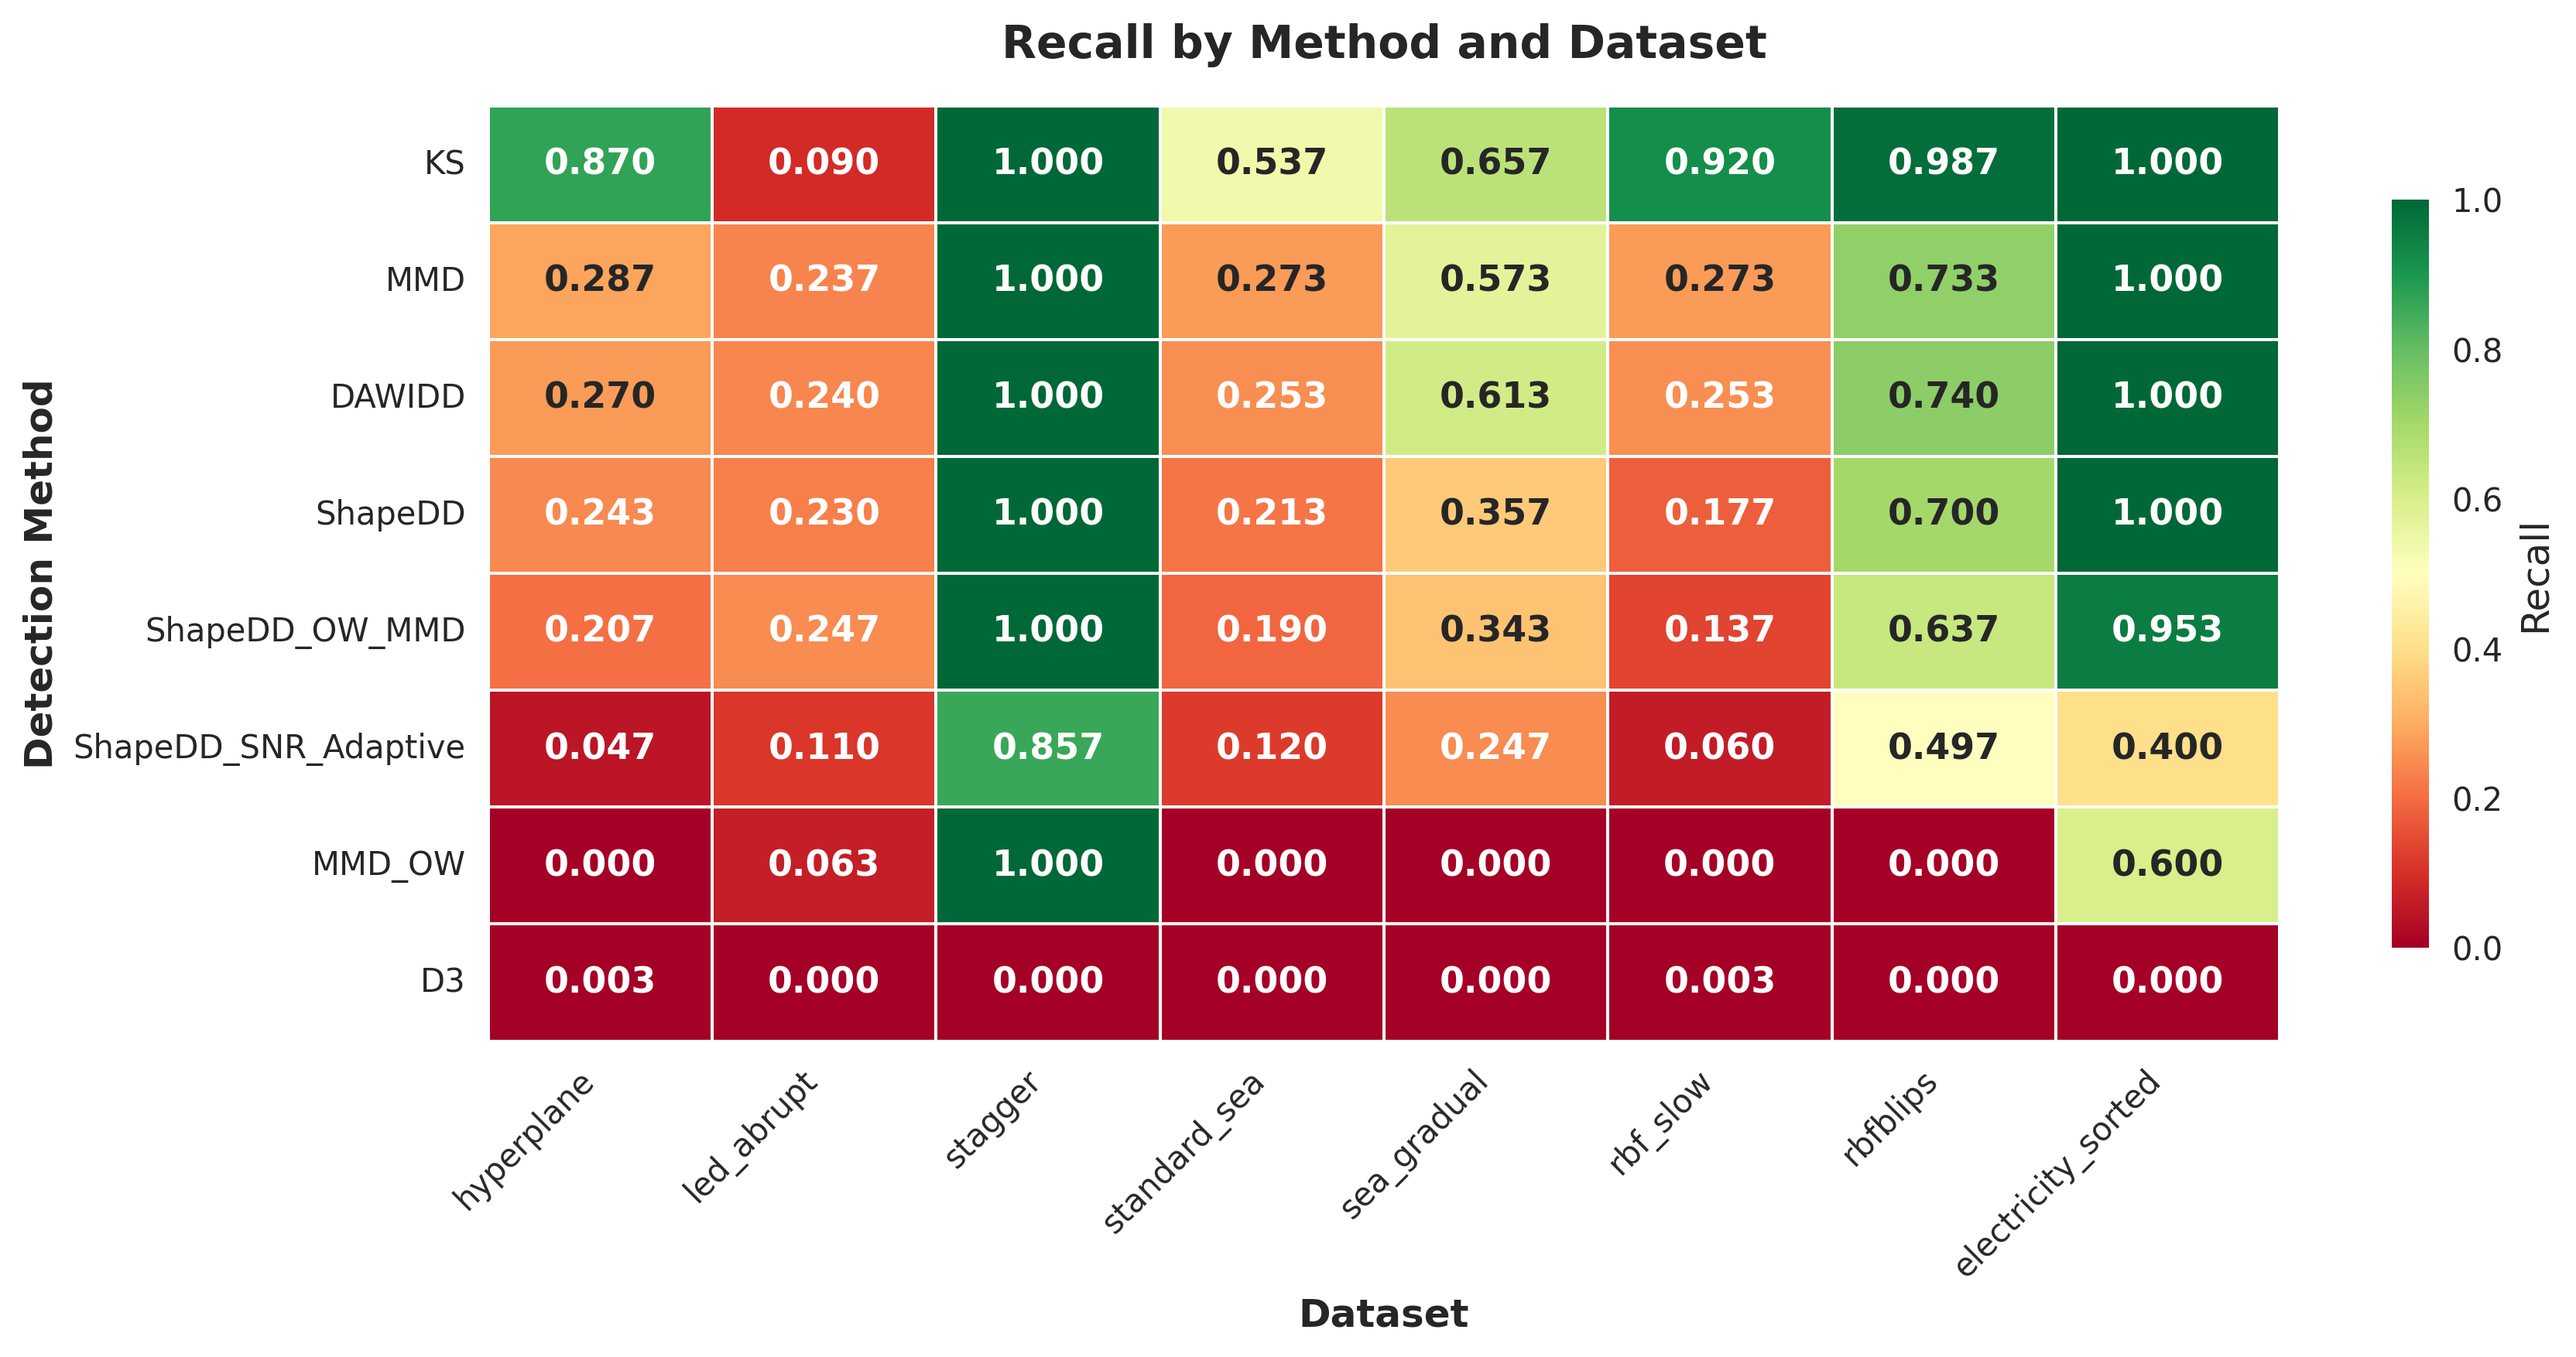
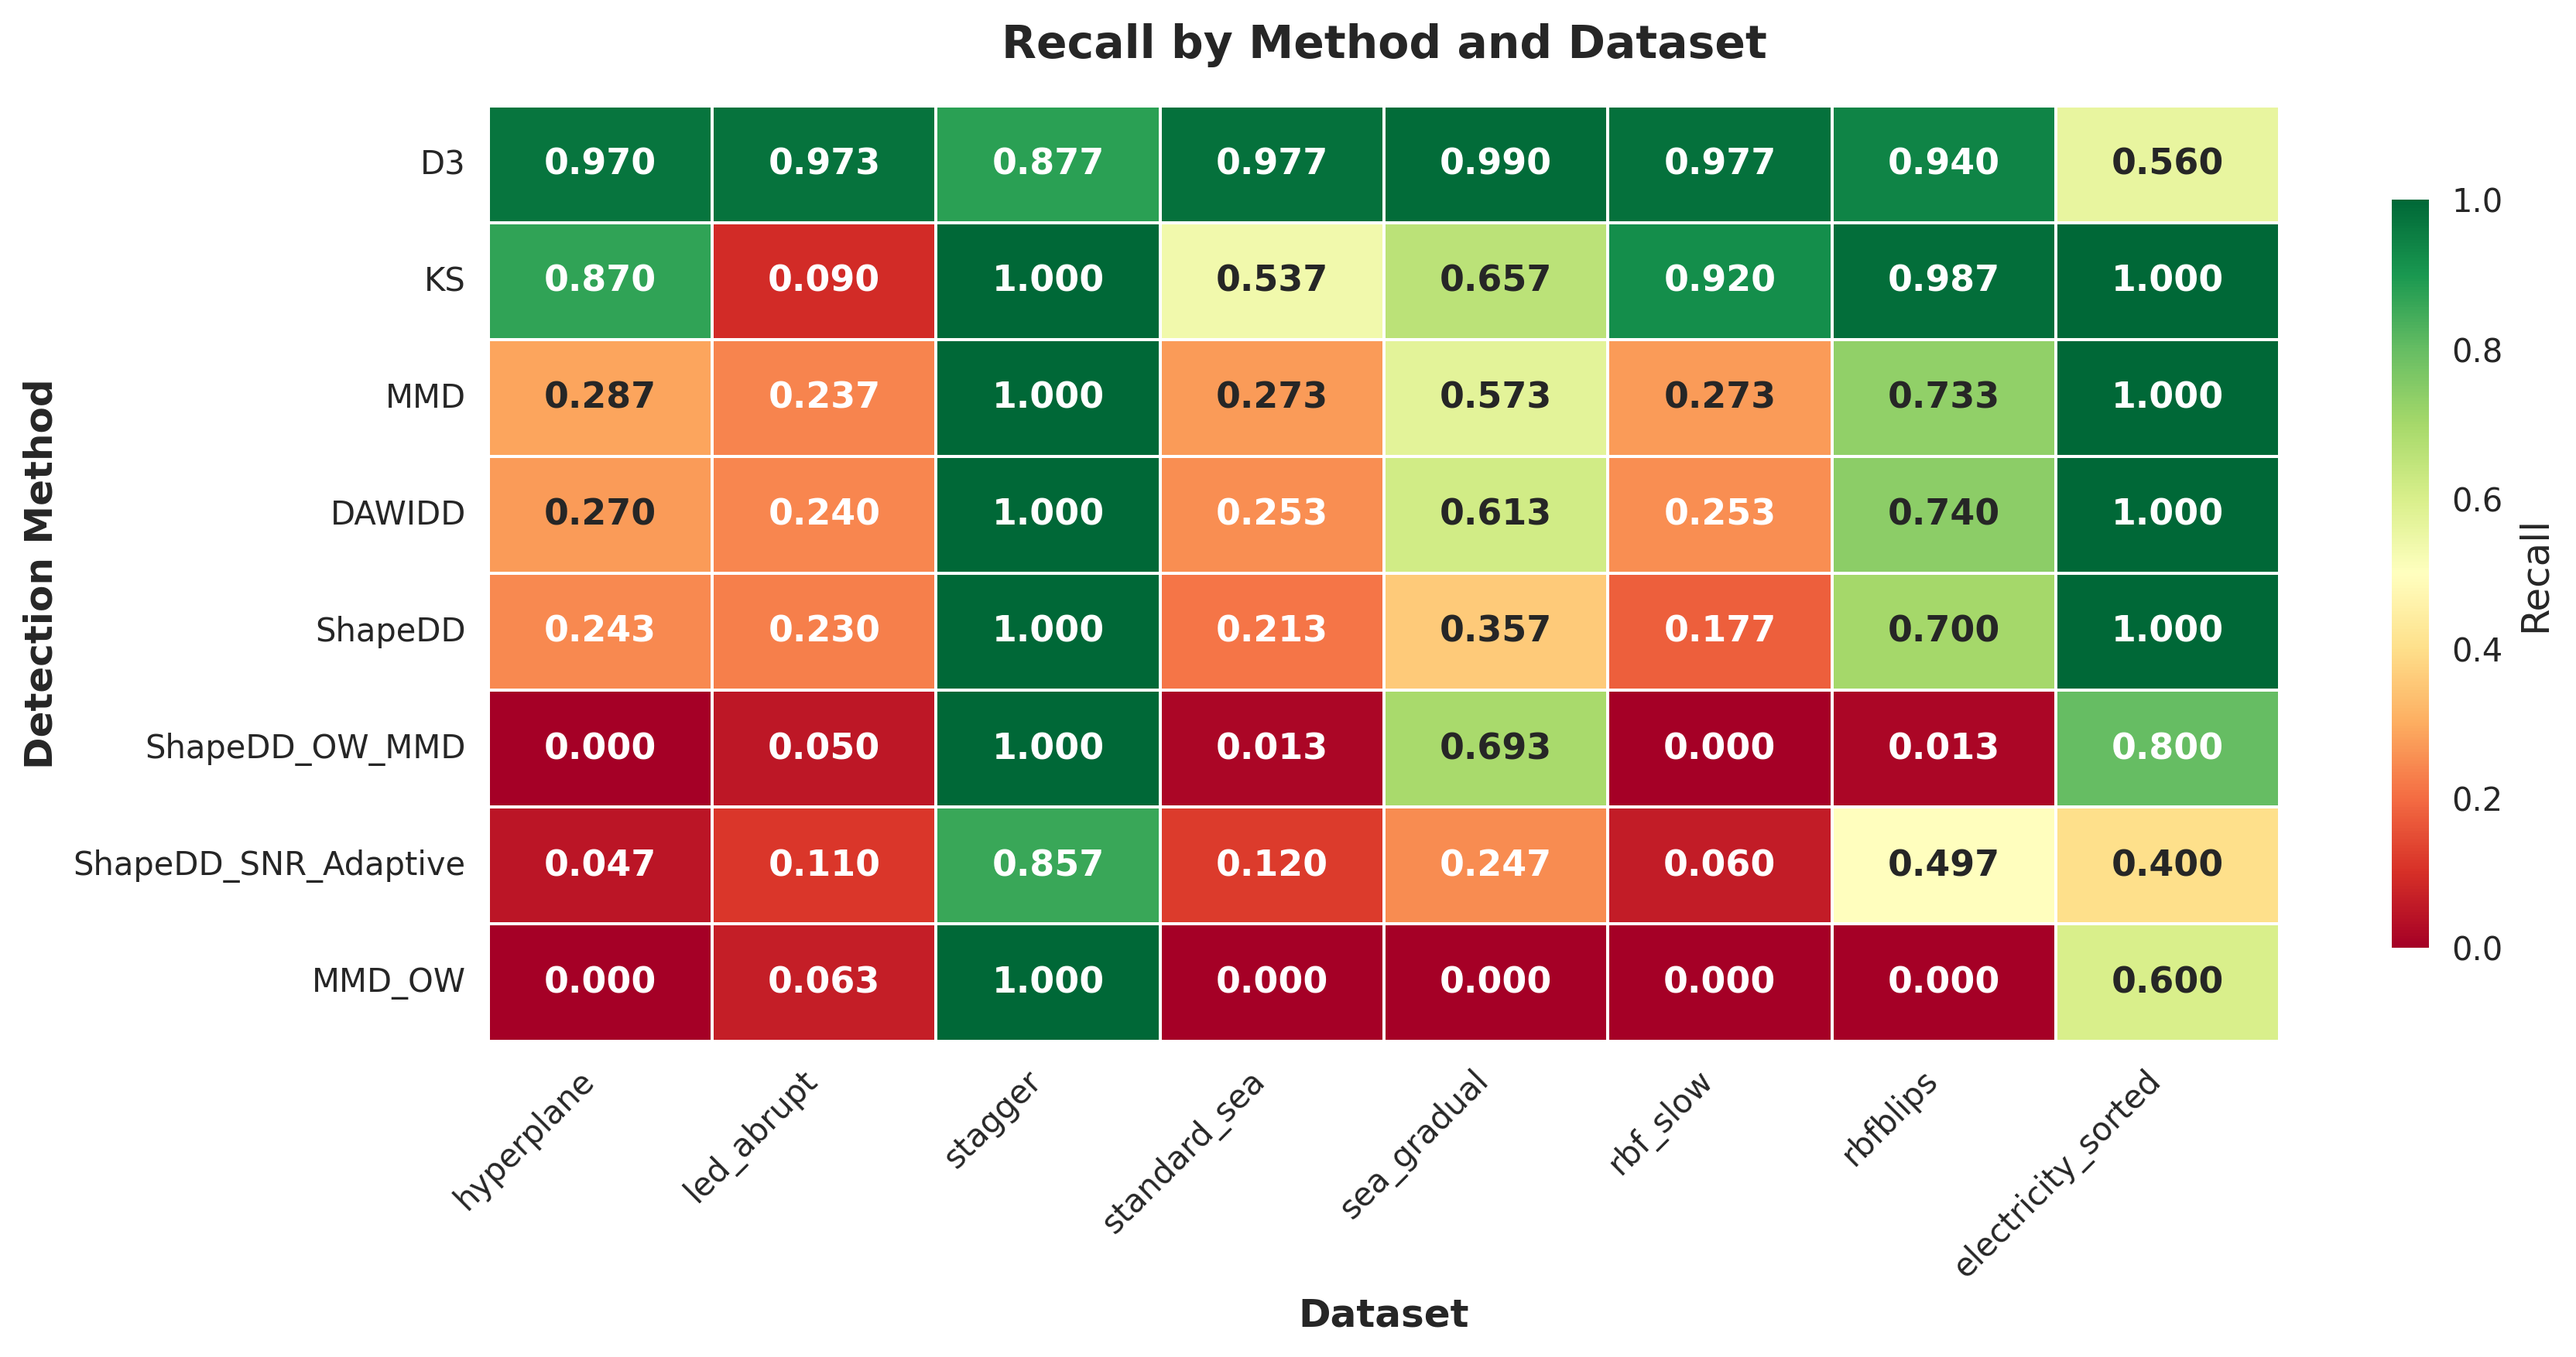
Re-run the experiment

diff --git a/publication_figures/table_II_f1_by_dataset.tex b/publication_figures/table_II_f1_by_dataset.tex
@@ -6,14 +6,14 @@
 Dataset & Rank & electricity_sorted & hyperplane & led_abrupt & rbf_slow & rbfblips & sea_gradual & stagger & standard_sea & Mean \\
 Method &  &  &  &  &  &  &  &  &  &  \\
 \midrule
-ShapeDD & 1 & 0.238 & 0.278 & 0.254 & 0.195 & 0.607 & 0.331 & 0.784 & 0.252 & \textbf{0.367} \\
-ShapeDD_OW_MMD & 2 & \textbf{0.247} & 0.250 & \textbf{0.269} & 0.176 & \textbf{0.617} & 0.325 & 0.806 & 0.235 & 0.366 \\
-MMD & 3 & 0.159 & \textbf{0.285} & 0.255 & 0.270 & 0.593 & 0.390 & 0.639 & 0.270 & 0.358 \\
-DAWIDD & 4 & 0.141 & 0.264 & 0.249 & 0.257 & 0.592 & \textbf{0.406} & 0.585 & 0.254 & 0.344 \\
-ShapeDD_SNR_Adaptive & 5 & 0.200 & 0.078 & 0.163 & 0.098 & 0.599 & 0.292 & 0.830 & 0.174 & 0.304 \\
-KS & 6 & 0.096 & 0.284 & 0.124 & \textbf{0.307} & 0.314 & 0.367 & 0.389 & \textbf{0.336} & 0.277 \\
-MMD_OW & 7 & 0.240 & 0.000 & 0.094 & 0.000 & 0.000 & 0.000 & \textbf{0.998} & 0.000 & 0.166 \\
-D3 & 8 & 0.000 & 0.006 & 0.000 & 0.006 & 0.000 & 0.000 & 0.000 & 0.000 & 0.002 \\
+ShapeDD & 1 & 0.238 & 0.278 & 0.254 & 0.195 & \textbf{0.607} & 0.331 & 0.784 & 0.252 & \textbf{0.367} \\
+MMD & 2 & 0.159 & \textbf{0.285} & 0.255 & 0.270 & 0.593 & 0.390 & 0.639 & 0.270 & 0.358 \\
+DAWIDD & 3 & 0.141 & 0.264 & 0.249 & 0.257 & 0.592 & 0.406 & 0.585 & 0.254 & 0.344 \\
+ShapeDD_SNR_Adaptive & 4 & 0.200 & 0.078 & 0.163 & 0.098 & 0.599 & 0.292 & 0.830 & 0.174 & 0.304 \\
+KS & 5 & 0.096 & 0.284 & 0.124 & \textbf{0.307} & 0.314 & 0.367 & 0.389 & \textbf{0.336} & 0.277 \\
+ShapeDD_OW_MMD & 6 & \textbf{0.276} & 0.000 & 0.083 & 0.000 & 0.024 & \textbf{0.774} & 0.994 & 0.023 & 0.272 \\
+D3 & 7 & 0.199 & 0.251 & \textbf{0.259} & 0.259 & 0.255 & 0.259 & 0.256 & 0.254 & 0.249 \\
+MMD_OW & 8 & 0.240 & 0.000 & 0.094 & 0.000 & 0.000 & 0.000 & \textbf{0.998} & 0.000 & 0.166 \\
 \bottomrule
 \end{tabular}
 \end{table}

diff --git a/publication_figures/table_I_comprehensive_performance.tex b/publication_figures/table_I_comprehensive_performance.tex
@@ -6,13 +6,13 @@
 Rank & Method & F1 ($\mu \pm \sigma$) & Precision & Recall & MTTD & TP & FP & FN \\
 \midrule
 1 & ShapeDD & $\mathbf{0.367 \pm 0.228}$ & 0.355 & 0.490 & 57.000 & 1026 & 2156 & 1224 \\
-2 & ShapeDD_OW_MMD & $0.365 \pm 0.236$ & 0.382 & 0.464 & 56.000 & 971 & 1869 & 1279 \\
-3 & MMD & $0.358 \pm 0.191$ & 0.315 & 0.547 & 60.000 & 1163 & 3382 & 1087 \\
-4 & DAWIDD & $0.344 \pm 0.187$ & 0.298 & 0.546 & 59.000 & 1161 & 3742 & 1089 \\
-5 & ShapeDD_SNR_Adaptive & $0.304 \pm 0.277$ & \textbf{0.438} & 0.292 & 55.000 & 641 & 786 & 1609 \\
-6 & KS & $0.277 \pm 0.120$ & 0.199 & \textbf{0.757} & 48.000 & 1668 & 8726 & 582 \\
-7 & MMD_OW & $0.167 \pm 0.327$ & 0.174 & 0.208 & \textbf{46.000} & 409 & 570 & 1841 \\
-8 & D3 & $0.002 \pm 0.017$ & 0.008 & 0.001 & 54.000 & 2 & 6 & 2248 \\
+2 & MMD & $0.358 \pm 0.191$ & 0.315 & 0.547 & 60.000 & 1163 & 3382 & 1087 \\
+3 & DAWIDD & $0.344 \pm 0.187$ & 0.298 & 0.546 & 59.000 & 1161 & 3742 & 1089 \\
+4 & ShapeDD_SNR_Adaptive & $0.304 \pm 0.277$ & \textbf{0.438} & 0.292 & 55.000 & 641 & 786 & 1609 \\
+5 & KS & $0.277 \pm 0.120$ & 0.199 & 0.757 & 48.000 & 1668 & 8726 & 582 \\
+6 & ShapeDD_OW_MMD & $0.272 \pm 0.374$ & 0.319 & 0.321 & 53.000 & 651 & 682 & 1599 \\
+7 & D3 & $0.249 \pm 0.035$ & 0.145 & \textbf{0.908} & 55.000 & 2095 & 12220 & 155 \\
+8 & MMD_OW & $0.167 \pm 0.327$ & 0.174 & 0.208 & \textbf{46.000} & 409 & 570 & 1841 \\
 \bottomrule
 \end{tabular}
 \end{table}

diff --git a/publication_figures/table_III_runtime_stats.tex b/publication_figures/table_III_runtime_stats.tex
@@ -6,14 +6,14 @@
  & Mean (s) & Std (s) & Min (s) & Max (s) & Throughput (samples/s) \\
 Method &  &  &  &  &  \\
 \midrule
-MMD_OW & 0.233500 & 0.011900 & 0.209200 & 0.264200 & 42827 \\
-KS & 0.316000 & 0.103600 & 0.159900 & 0.474900 & 31646 \\
-D3 & 0.336300 & 0.008700 & 0.316900 & 0.369700 & 29735 \\
-MMD & 0.691100 & 0.309900 & 0.278000 & 2.007500 & 14470 \\
-DAWIDD & 2.264700 & 0.257800 & 1.985800 & 5.135400 & 4416 \\
-ShapeDD & 2.323100 & 0.632300 & 1.435100 & 6.010400 & 4305 \\
-ShapeDD_SNR_Adaptive & 2.802200 & 0.503600 & 2.047500 & 5.664500 & 3569 \\
-ShapeDD_OW_MMD & 37.340900 & 2.340900 & 31.698800 & 43.036600 & 268 \\
+ShapeDD_OW_MMD & 0.186400 & 0.013200 & 0.163000 & 0.312100 & 53648 \\
+MMD_OW & 0.248000 & 0.015100 & 0.213900 & 0.359000 & 40323 \\
+KS & 0.333100 & 0.103700 & 0.166000 & 0.544200 & 30021 \\
+D3 & 0.348700 & 0.019700 & 0.327700 & 0.641900 & 28678 \\
+MMD & 0.819600 & 0.468100 & 0.278800 & 4.861400 & 12201 \\
+DAWIDD & 2.432900 & 0.280400 & 2.039600 & 4.531600 & 4110 \\
+ShapeDD & 2.581700 & 0.776000 & 1.449300 & 9.001700 & 3873 \\
+ShapeDD_SNR_Adaptive & 3.129800 & 0.725900 & 2.123000 & 7.372000 & 3195 \\
 \bottomrule
 \end{tabular}
 \end{table}
